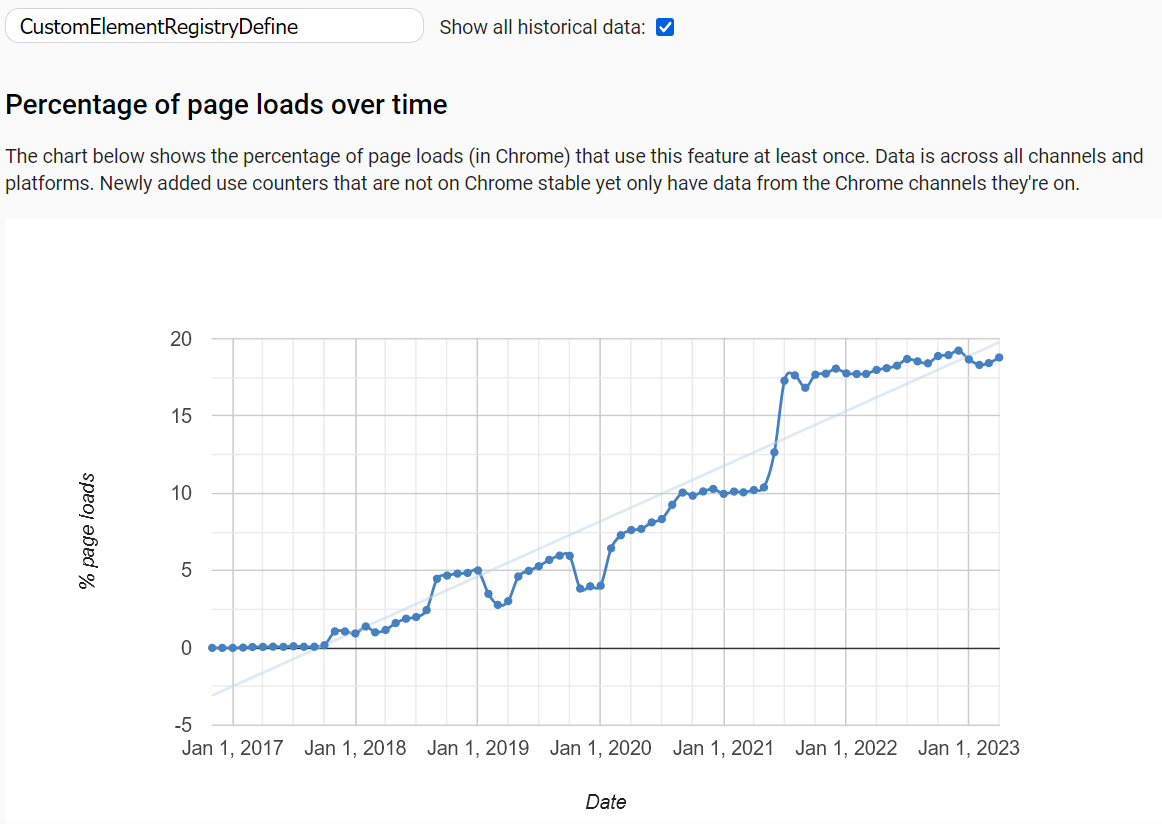
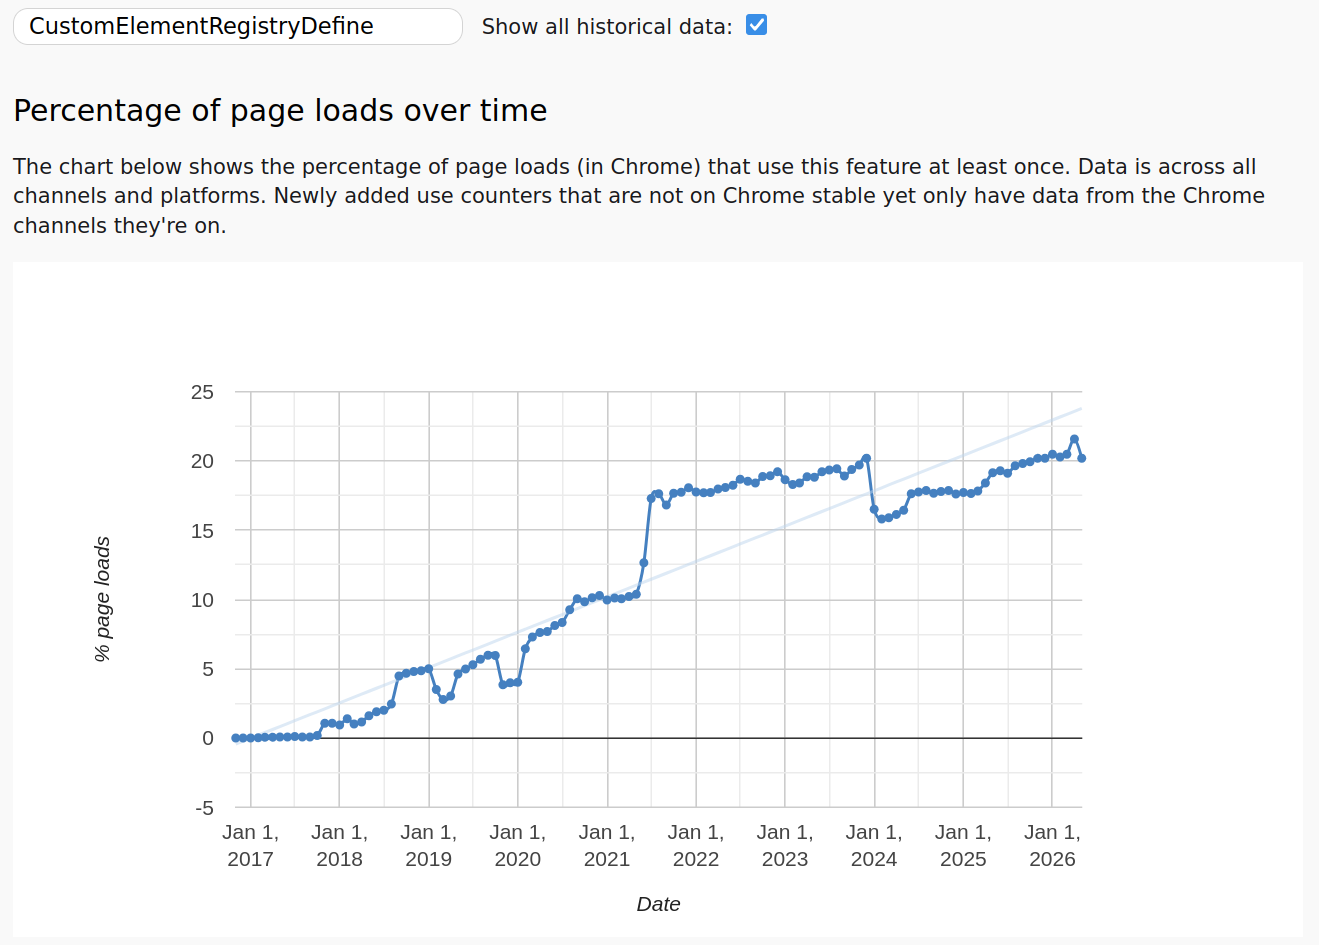
dvanacta

diff --git a/KAJ/index.html b/KAJ/index.html
@@ -85,8 +85,8 @@
 				<li><a href="prednasky/09/">Offline; HTML značky &lt;svg&gt; a &lt;audio&gt;</a></li>
 				<li><a href="prednasky/10/">HTML značky &lt;video&gt; a &lt;canvas&gt;</a></li>
 				<li><a href="prednasky/11/">Další JavaScriptová API</a></li>
-<!--
 				<li><a href="prednasky/12/">Web Components a CSS Layers</a></li>
+<!--
 				<li><a href="prednasky/13-typescript/">TypeScript</a></li>
 				<li><a href="prednasky/13-ts+ssjs/">TypeScript a JS mimo prohlížeč</a></li>
 				<li><a href="prednasky/13-server-side-js/">JS na serveru</a></li>

diff --git a/KAJ/prednasky/12/index.html b/KAJ/prednasky/12/index.html
@@ -8,11 +8,16 @@
 		<maslo-deck src="index.md" skin="cvut" standalone></maslo-deck>
 		<script src="https://cdn.jsdelivr.net/npm/ma-sl-o@4/maslo.js"></script>
 		<style>
-.side {
+.cascade {
 	position: absolute;
 	top: 60px;
 	right: 8px;
+
+	img {
+		height: 500px;
+	}
 }
+
 		</style>
 	</body>
 </html>

diff --git a/KAJ/prednasky/12/index.md b/KAJ/prednasky/12/index.md
@@ -15,8 +15,7 @@
 
 # Příští přednáška je poslední
 
-  - téma bylo zvoleno hlasováním
-  - *TypeScript*
+![](img/hlasovani.png){width="100%"}
 
 ---
 
@@ -25,9 +24,8 @@
   - Odehrává se v Seznamu
     - Radlická 10, Praha 5
   - Výsledkem zkoušky je skóre v intervalu `<−10, 10>` bodů
-  - První před-čtyř-termín: 23. 5. 2025 (9:00, 10:00, 11:00, 12:00)
+  - První před-čtyř-termín: 22. 5. 2026 (9:00, 10:00, 11:00, 12:00)
   - Celkem 20 termínů
-    - plus bonus termín na akademické půdě
   - Další termíny budou vypsány jen v případě absolutní nouze
 
 ---
@@ -318,8 +316,6 @@ my-element::part(obrazek) {
 - [Apple Just Shipped Web Components to Production and You Probably Missed It](https://dev.to/ionic/apple-just-shipped-web-components-to-production-and-you-probably-missed-it-57pf)
 - [Custom Elements v1 - Reusable Web Components](https://web.dev/custom-elements-v1/)
 - [Web Components v praxi (FrontKon 2023)](https://www.youtube.com/watch?v=zXQiYmdADaw)
-
----
 
 ---
 
